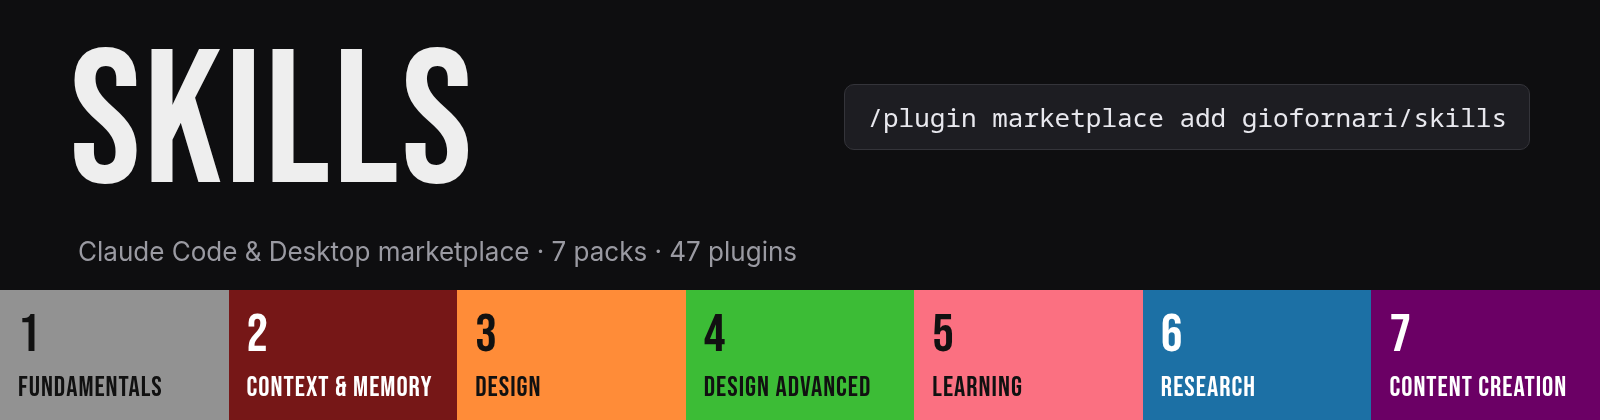
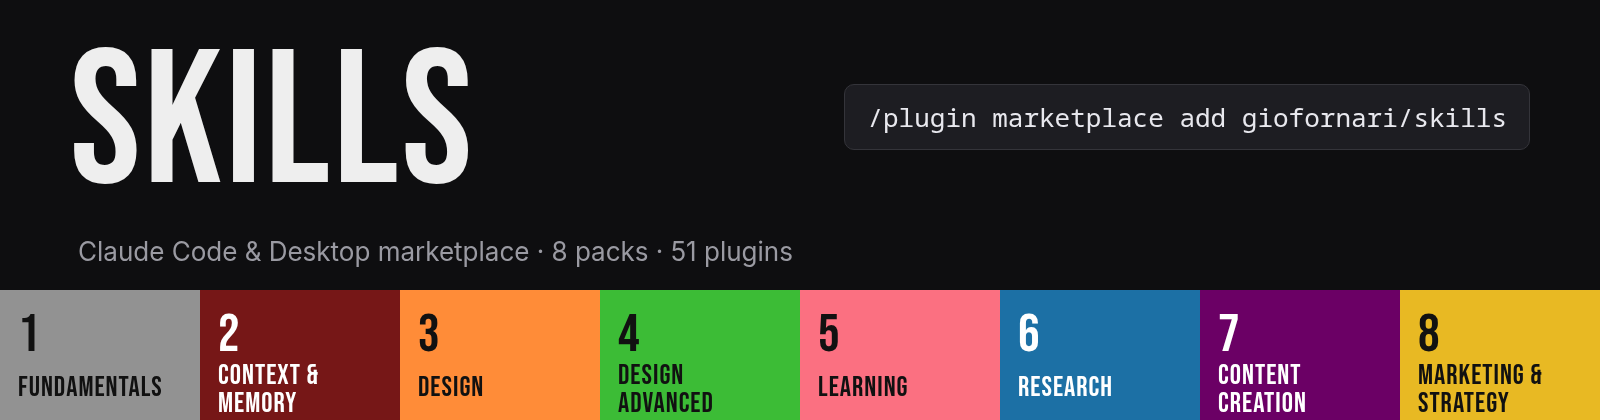
done

Changed region(s): [[0.375, 0.681, 1.0, 1.0], [0.125, 0.681, 0.3438, 1.0], [0.3438, 0.5571, 0.5, 0.65]]

diff --git a/README.it.md b/README.it.md
@@ -2,7 +2,7 @@
 
 [English](README.md) · **Italiano**
 
-Un **marketplace** per Claude Code e Claude Desktop: un catalogo di plugin. Qui ci sono tutte le skill, i server MCP e gli strumenti che uso, divisi in 7 categorie. Ogni categoria ha un **pack** che installa l'essenziale in un colpo solo. Ogni plugin si installa anche da solo.
+Un **marketplace** per Claude Code e Claude Desktop: un catalogo di plugin. Qui ci sono tutte le skill, i server MCP e gli strumenti che uso, divisi in 8 categorie. Ogni categoria ha un **pack** che installa l'essenziale in un colpo solo. Ogni plugin si installa anche da solo.
 
 Qui non c'è niente di copiato. Ogni voce punta al repo originale e segue l'ultima versione.
 
@@ -17,7 +17,7 @@ Qui non c'è niente di copiato. Ogni voce punta al repo originale e segue l'ulti
 
 **Claude Desktop**: Customize > Plugins > Add marketplace > `giofornari/skills`, poi scegli un pack.
 
-Sfoglia tutto con `/plugin`. I pack sono le prime sette voci.
+Sfoglia tutto con `/plugin`. I pack sono le prime otto voci.
 
 ## Installa: un agente
 
@@ -36,7 +36,7 @@ Poi `/reload-plugins` o riavvia la sessione. I nomi dei plugin sono nelle tabell
 | Percorso | Ruolo |
 |---|---|
 | `.claude-plugin/marketplace.json` | Il catalogo e unica fonte di verità: prima i pack, poi i plugin per categoria |
-| `plugins/` | Solo ciò che è mio: i 7 manifest dei pack, `camoufox` (server MCP), `graphify` (skill di setup) |
+| `plugins/` | Solo ciò che è mio: i 8 manifest dei pack, `camoufox` (server MCP), `graphify` (skill di setup) |
 | `docs/` | Le immagini di questo README |
 
 Le voci sono di quattro tipi:
@@ -61,6 +61,7 @@ Le voci sono di quattro tipi:
 | `5-pack-learning` | 4 plugin | ~1.648 |
 | `6-pack-research` | 4 plugin | ~1.214 |
 | `7-pack-content-creation` | 4 plugin | ~19.030 |
+| `8-pack-marketing-strategy` | 4 plugin | ~5.019 |
 
 I plugin con tag `bonus` e i due plugin dei repo interi non fanno parte di nessun pack.
 
@@ -177,6 +178,17 @@ I plugin con tag `bonus` e i due plugin dei repo interi non fanno parte di nessu
 | [`hyperframes`](https://github.com/heygen-com/hyperframes) | Scrivi HTML, renderizza video: tutte le skill HyperFrames in un solo bundle | 7 skill | ~551 |
 | [`marketing-skills`](https://github.com/coreyhaines31/marketingskills) | Skill di marketing: CRO, copywriting, SEO e altro | 52 skill | ~10.629 |
 
+### Marketing & Strategy
+
+![Marketing & Strategy](docs/it/cat-8-marketing-strategy.png)
+
+| Plugin | Cosa fa | Carica | Token |
+|---|---|---|---|
+| [`seo`](https://github.com/AgriciDaniel/claude-seo) | Suite SEO: 26 skill e 19 sub-agent per audit, SEO tecnica, schema, GEO, backlink, SEO locale ed e-commerce | 26 skill | ~3.123 |
+| [`seo-extensions`](https://github.com/AgriciDaniel/claude-seo/tree/HEAD/extensions) | Skill SEO opzionali per Ahrefs, Bing Webmaster, Firecrawl, Matomo, Profound, SE Ranking e Unlighthouse. Ognuna richiede il proprio account o la propria API key | 7 skill | ~414 |
+| [`marketing-cro`](https://github.com/wondelai/skills) | Framework di conversione e marketing: metodologia CRO, StoryBrand, Scorecard Marketing, Contagious, 1-Page Marketing Plan | 5 skill | ~788 |
+| [`sales-influence`](https://github.com/wondelai/skills) | Framework di vendita e persuasione: psicologia dell'influenza di Cialdini, Predictable Revenue, Made to Stick, $100M Offers | 4 skill | ~694 |
+
 ## Prerequisiti
 
 - `graphify`: serve `uv`. La sua skill installa la CLI con l'installer di Graphify.
@@ -184,6 +196,7 @@ I plugin con tag `bonus` e i due plugin dei repo interi non fanno parte di nessu
 - `agent-reach`: installa la CLI dalla [guida di installazione](https://raw.githubusercontent.com/Panniantong/Agent-Reach/main/docs/install.md). Il pacchetto PyPI con lo stesso nome è un altro progetto.
 - `openmontage`: carica solo le skill. La pipeline completa richiede il progetto clonato (Python 3.10+, FFmpeg).
 - `exa`, `firecrawl`, `tavily`: al primo uso servono una tua API key o un login.
+- `seo`: include un hook che valida lo schema markup dopo ogni modifica a un file. `seo-extensions`: ogni skill richiede il proprio account o la propria API key.
 - `caveman`, `hyperframes`: l'installazione del plugin salta le dipendenze Node, quindi installale a mano quando uno strumento le chiede.
 
 ## Aggiornamenti

diff --git a/README.md b/README.md
@@ -2,7 +2,7 @@
 
 **English** · [Italiano](README.it.md)
 
-A Claude Code and Claude Desktop **marketplace**: a catalog of plugins. This one holds every skill, MCP server and tool I use, sorted into 7 categories. Each category has a **pack** that installs the essentials in one step. Every plugin also installs on its own.
+A Claude Code and Claude Desktop **marketplace**: a catalog of plugins. This one holds every skill, MCP server and tool I use, sorted into 8 categories. Each category has a **pack** that installs the essentials in one step. Every plugin also installs on its own.
 
 Nothing is copied here. Each entry points at its upstream repo and follows its latest version.
 
@@ -17,7 +17,7 @@ Nothing is copied here. Each entry points at its upstream repo and follows its l
 
 **Claude Desktop**: Customize > Plugins > Add marketplace > `giofornari/skills`, then pick a pack.
 
-Browse everything with `/plugin`. The packs are the first seven entries.
+Browse everything with `/plugin`. The packs are the first eight entries.
 
 ## Install: an agent
 
@@ -36,7 +36,7 @@ Then `/reload-plugins` or restart the session. Plugin names are in the tables be
 | Path | Role |
 |---|---|
 | `.claude-plugin/marketplace.json` | The catalog and single source of truth: packs first, then plugins by category |
-| `plugins/` | Only what is mine: the 7 pack manifests, `camoufox` (MCP server), `graphify` (setup skill) |
+| `plugins/` | Only what is mine: the 8 pack manifests, `camoufox` (MCP server), `graphify` (setup skill) |
 | `docs/` | The images in this README |
 
 Entries come in four kinds:
@@ -61,6 +61,7 @@ Entries come in four kinds:
 | `5-pack-learning` | 4 plugins | ~1,648 |
 | `6-pack-research` | 4 plugins | ~1,214 |
 | `7-pack-content-creation` | 4 plugins | ~19,030 |
+| `8-pack-marketing-strategy` | 4 plugins | ~5,019 |
 
 Plugins tagged `bonus` and the two full-repo plugins belong to no pack.
 
@@ -177,6 +178,17 @@ Plugins tagged `bonus` and the two full-repo plugins belong to no pack.
 | [`hyperframes`](https://github.com/heygen-com/hyperframes) | Write HTML, render video: all HyperFrames skills in one bundle | 7 skills | ~551 |
 | [`marketing-skills`](https://github.com/coreyhaines31/marketingskills) | Marketing skills: CRO, copywriting, SEO and more | 52 skills | ~10,629 |
 
+### Marketing & Strategy
+
+![Marketing & Strategy](docs/cat-8-marketing-strategy.png)
+
+| Plugin | What it does | Loads | Tokens |
+|---|---|---|---|
+| [`seo`](https://github.com/AgriciDaniel/claude-seo) | SEO suite: 26 skills and 19 sub-agents for audits, technical SEO, schema, GEO, backlinks, local and e-commerce SEO | 26 skills | ~3,123 |
+| [`seo-extensions`](https://github.com/AgriciDaniel/claude-seo/tree/HEAD/extensions) | Optional SEO data skills for Ahrefs, Bing Webmaster, Firecrawl, Matomo, Profound, SE Ranking and Unlighthouse. Each needs its own account or API key | 7 skills | ~414 |
+| [`marketing-cro`](https://github.com/wondelai/skills) | Conversion and marketing frameworks: CRO methodology, StoryBrand, Scorecard Marketing, Contagious, 1-Page Marketing Plan | 5 skills | ~788 |
+| [`sales-influence`](https://github.com/wondelai/skills) | Sales and persuasion frameworks: Cialdini's influence psychology, Predictable Revenue, Made to Stick, $100M Offers | 4 skills | ~694 |
+
 ## Prerequisites
 
 - `graphify`: needs `uv`. Its skill installs the CLI through Graphify's own installer.
@@ -184,6 +196,7 @@ Plugins tagged `bonus` and the two full-repo plugins belong to no pack.
 - `agent-reach`: install the CLI from [its install guide](https://raw.githubusercontent.com/Panniantong/Agent-Reach/main/docs/install.md). The PyPI package with the same name is a different project.
 - `openmontage`: loads the skills only. The full pipeline needs the project cloned (Python 3.10+, FFmpeg).
 - `exa`, `firecrawl`, `tavily`: need your own API key or login at first use.
+- `seo`: ships a hook that validates schema markup after each file edit. `seo-extensions`: each skill needs its own account or API key.
 - `caveman`, `hyperframes`: plugin installs skip their Node dependencies, so install those by hand when a tool asks.
 
 ## Updates
